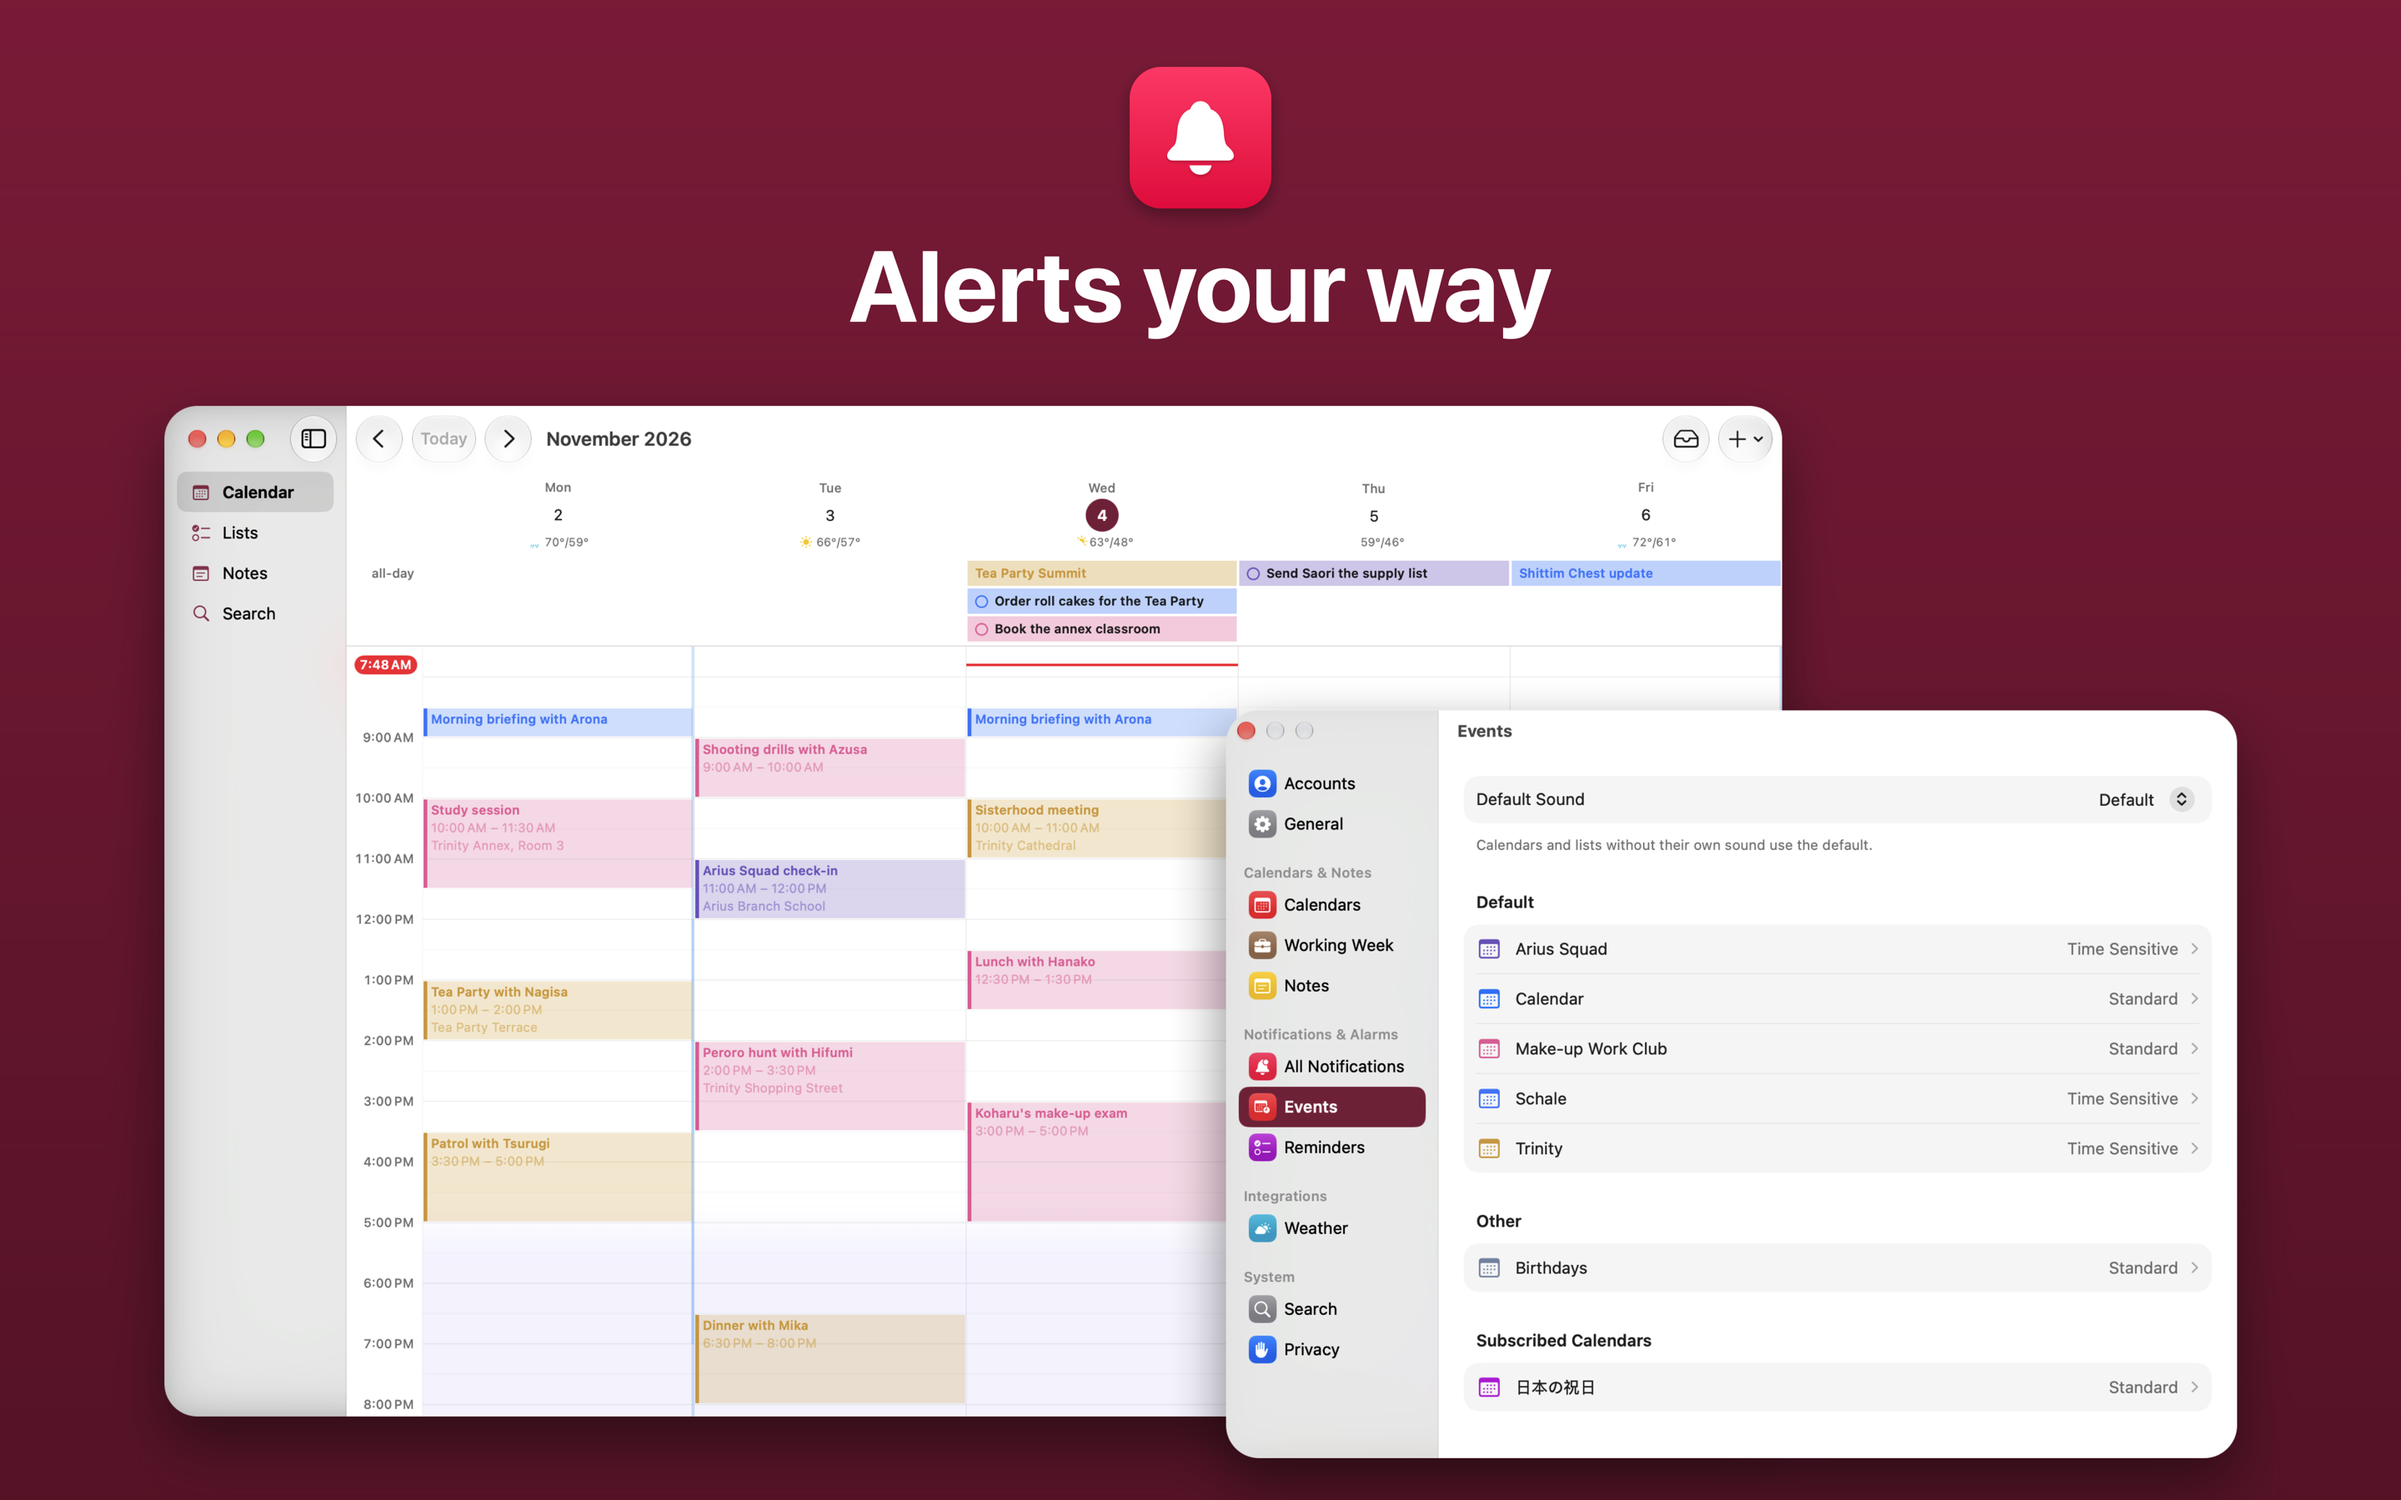
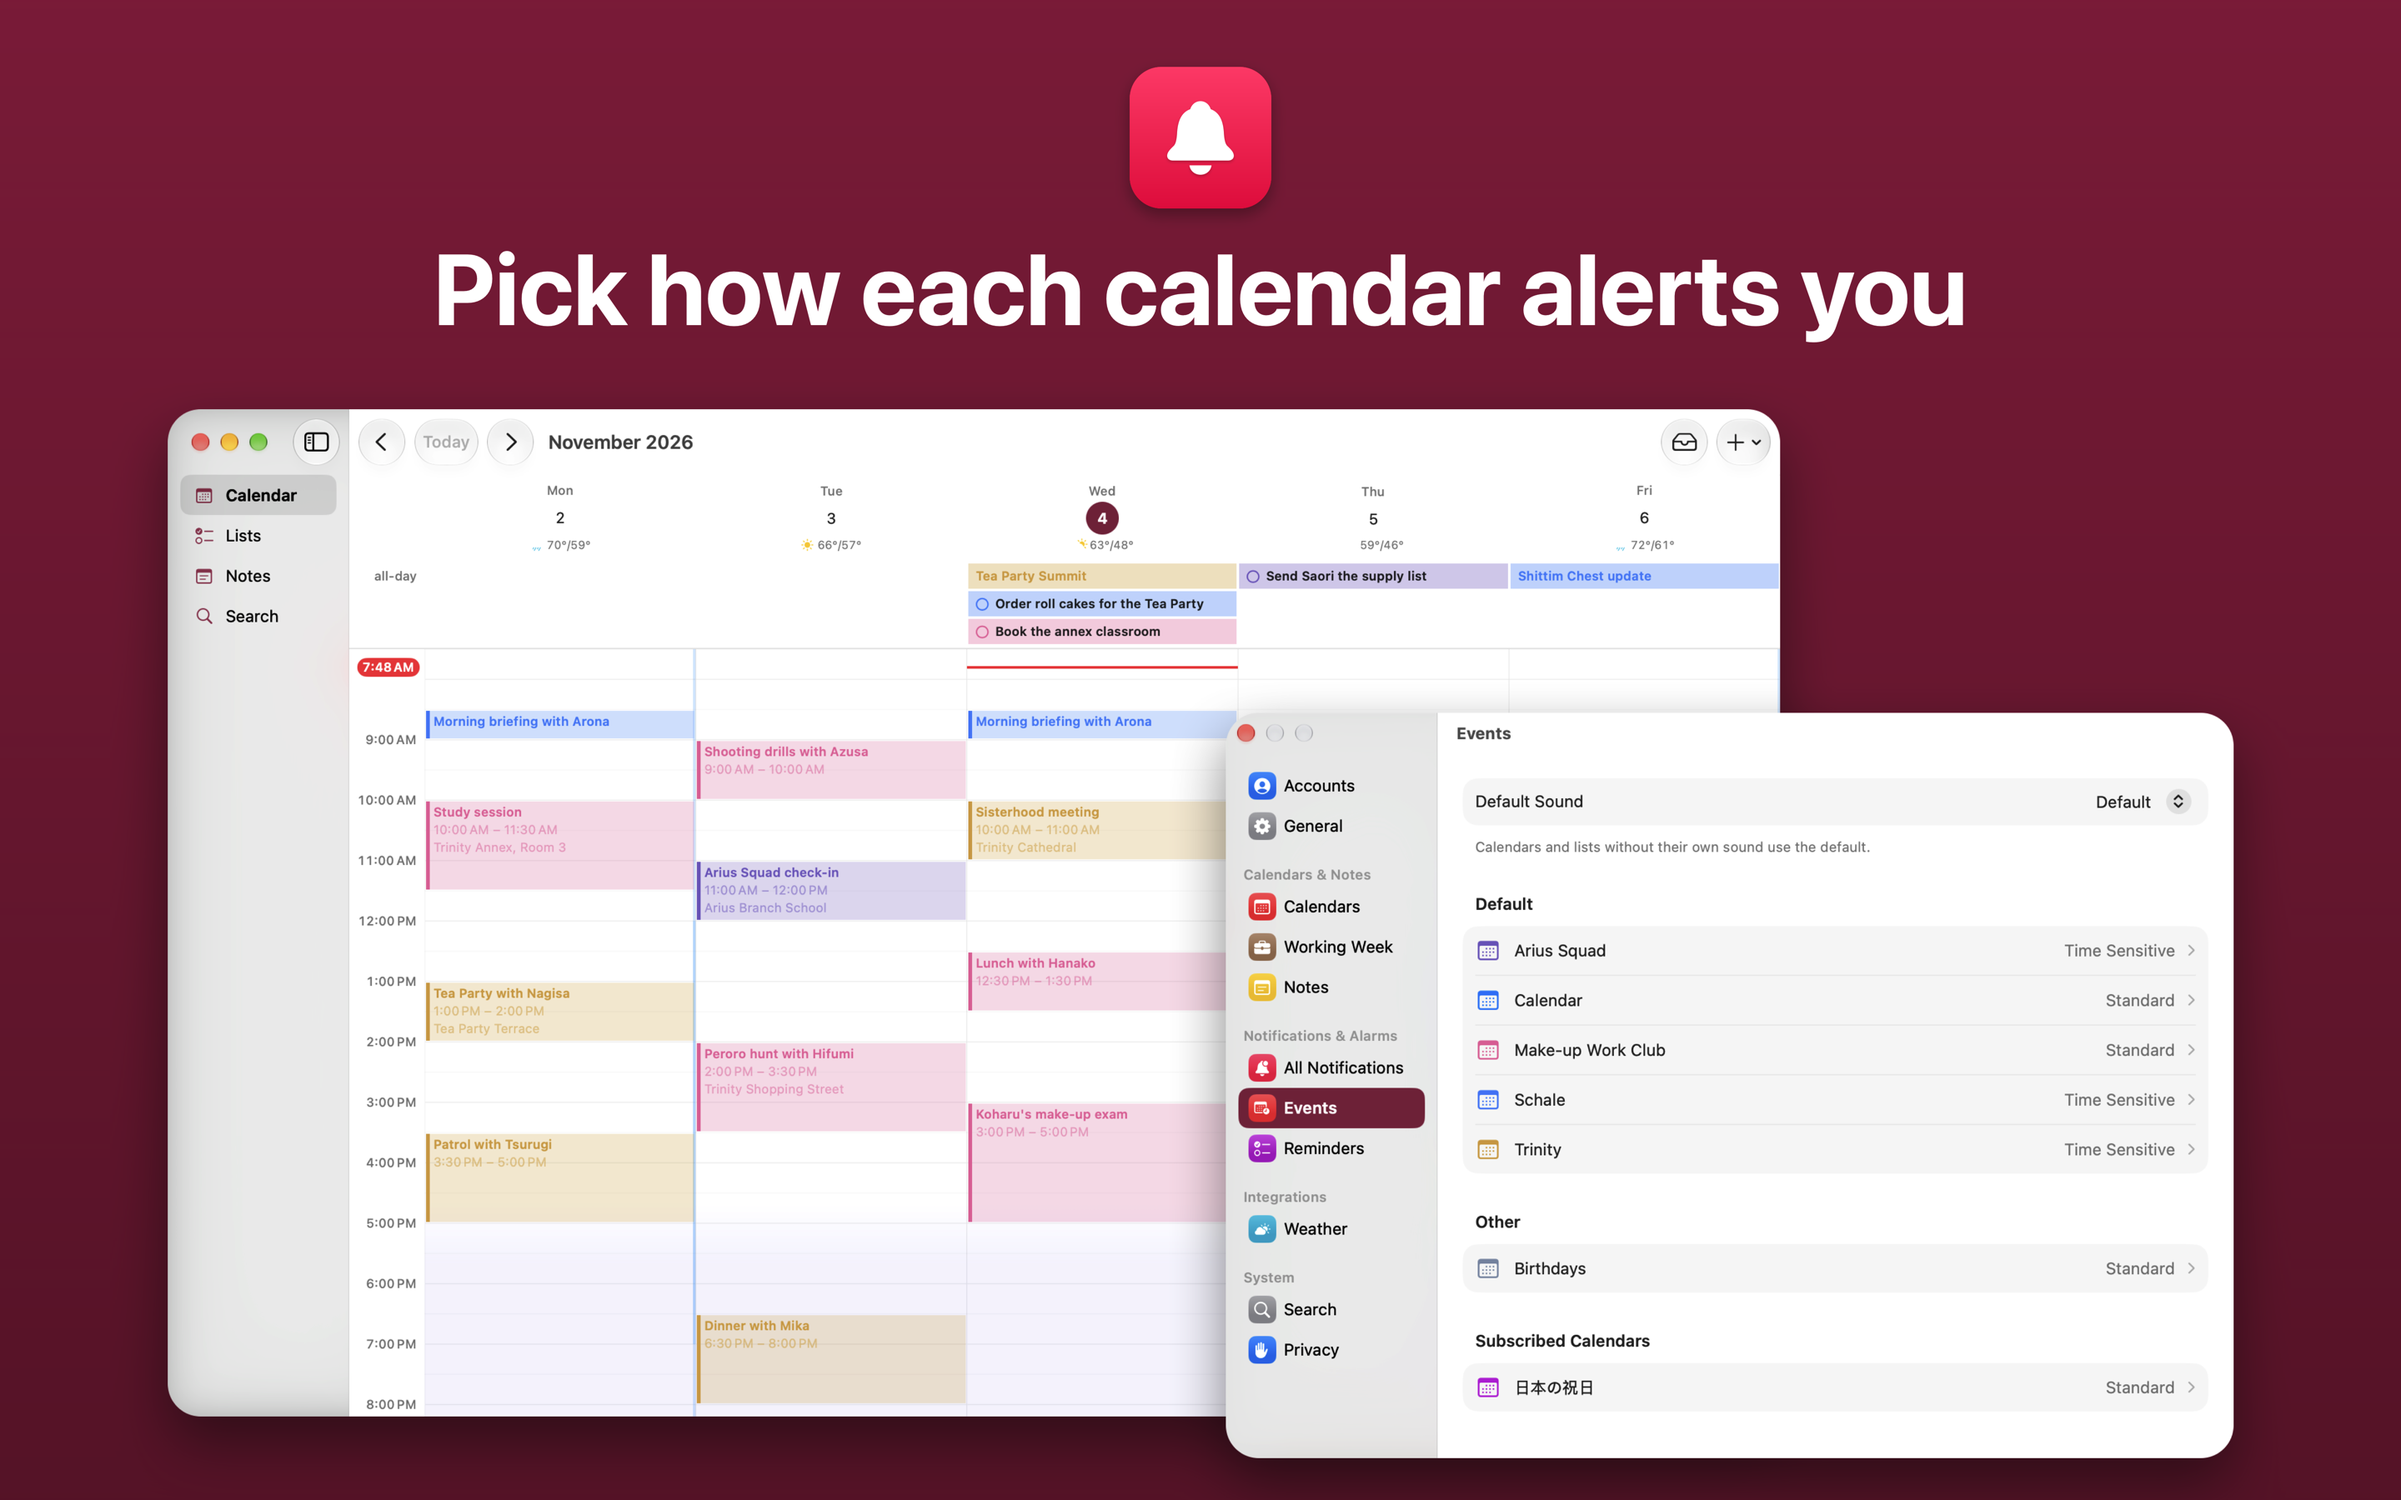
Reword the App Store screenshot headers to read more naturally

diff --git a/Assets/App Store/compose.swift b/Assets/App Store/compose.swift
@@ -64,28 +64,28 @@ let gradientTop = accent
 let gradientBottom = accent.blended(withFraction: 0.3, of: .black)!
 
 let weekCopy = [
-    "en": Copy(header: "Your whole week at a glance"),
-    "ja": Copy(header: "1週間をひと目で"),
+    "en": Copy(header: "See your whole week at once"),
+    "ja": Copy(header: "今週の予定、ぜんぶ見える"),
 ]
 let listsCopy = [
-    "en": Copy(header: "A list for everything"),
-    "ja": Copy(header: "やることをリストに"),
+    "en": Copy(header: "Tick things off as you go"),
+    "ja": Copy(header: "終わったらチェックするだけ"),
 ]
 let notesCopy = [
-    "en": Copy(header: "Notes in plain Markdown"),
-    "ja": Copy(header: "メモはMarkdownで"),
+    "en": Copy(header: "Jot it down in Markdown"),
+    "ja": Copy(header: "メモはMarkdownでさっと"),
 ]
 let alarmsCopy = [
-    "en": Copy(header: "Alarms right on your calendar"),
-    "ja": Copy(header: "カレンダーにアラームを"),
+    "en": Copy(header: "Double tap a day to set an alarm"),
+    "ja": Copy(header: "ダブルタップでアラームをセット"),
 ]
 let notificationsCopy = [
-    "en": Copy(header: "Alerts your way"),
-    "ja": Copy(header: "通知は思いのままに"),
+    "en": Copy(header: "Pick how each calendar alerts you"),
+    "ja": Copy(header: "通知の鳴らし方は自分で決める"),
 ]
 let countdownCopy = [
-    "en": Copy(header: "Count down to what's next"),
-    "ja": Copy(header: "次の予定までカウントダウン"),
+    "en": Copy(header: "See how long until your next event"),
+    "ja": Copy(header: "次の予定まで、あと何分?"),
 ]
 
 let iPhoneScreenshots = [
@@ -105,8 +105,8 @@ let macScreenshots = [
         name: "01-week",
         icon: .calendar,
         copy: [
-            "en": Copy(header: "A planner for your Mac"),
-            "ja": Copy(header: "Macのためのプランナー"),
+            "en": Copy(header: "Your whole week, on your Mac"),
+            "ja": Copy(header: "1週間まるごと、Macで"),
         ]
     ),
     Screenshot(name: "02-lists", icon: .reminders, copy: listsCopy),
